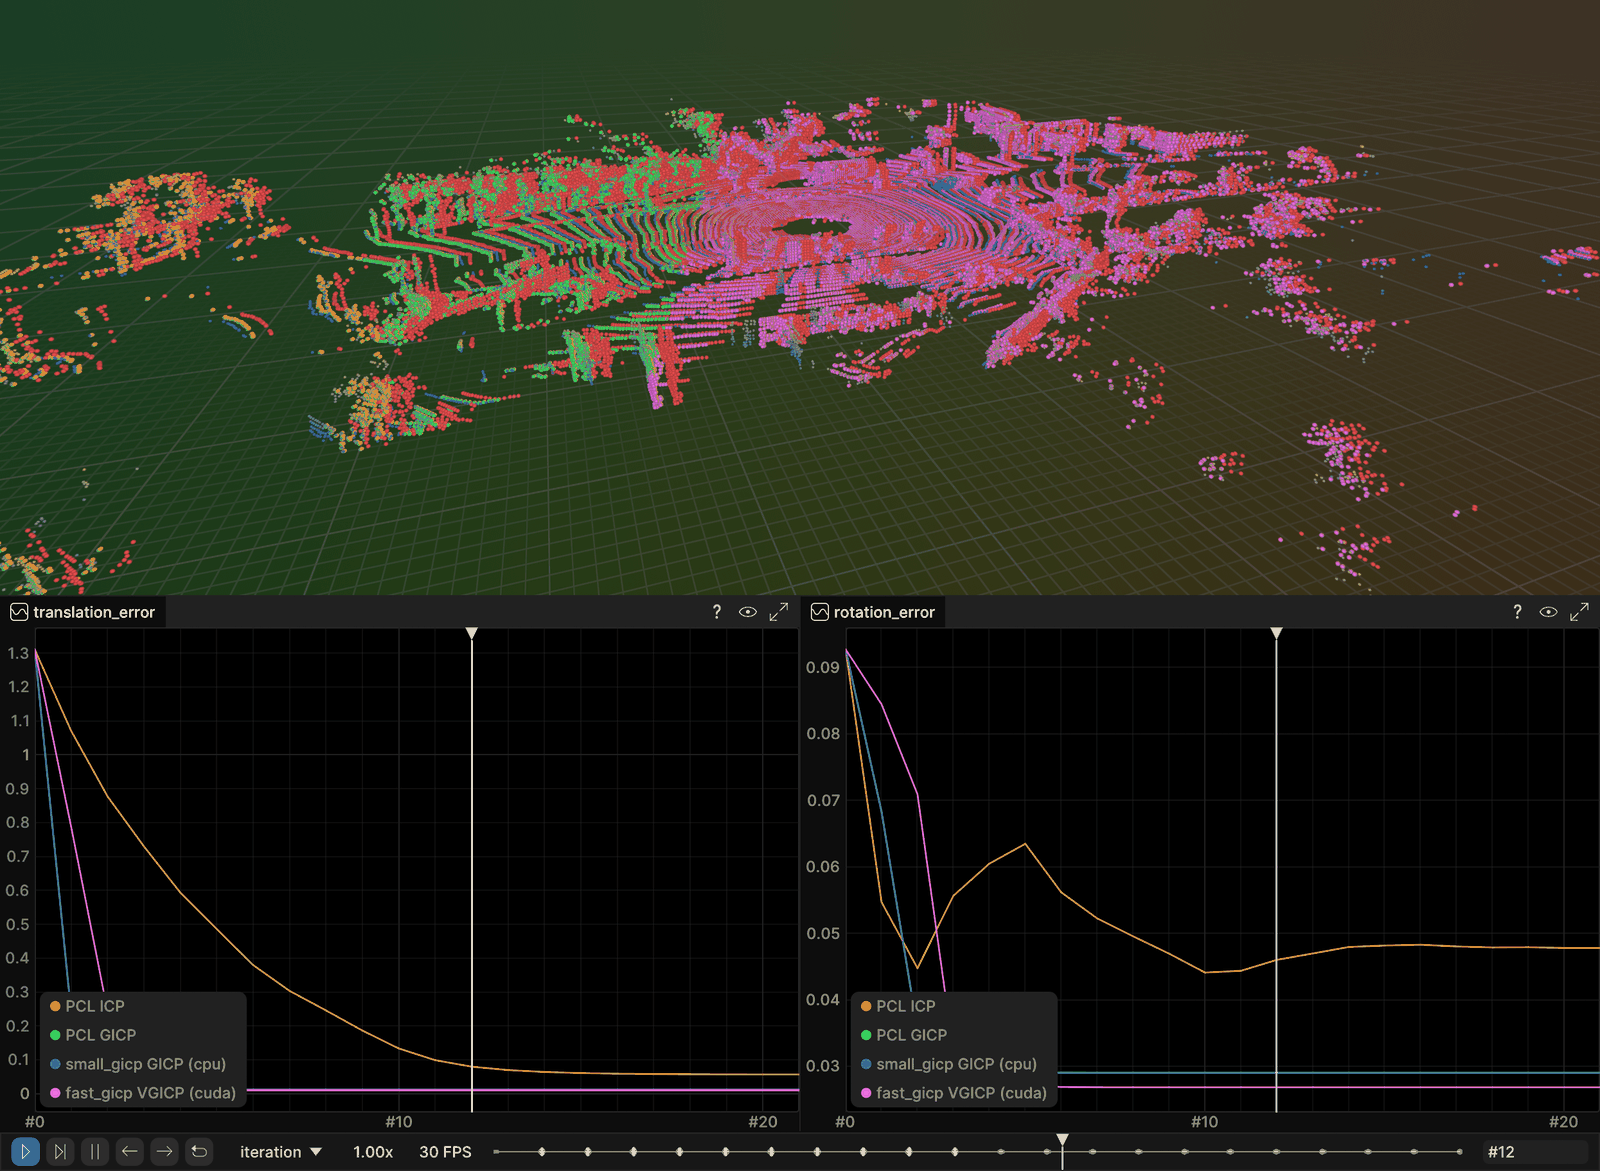
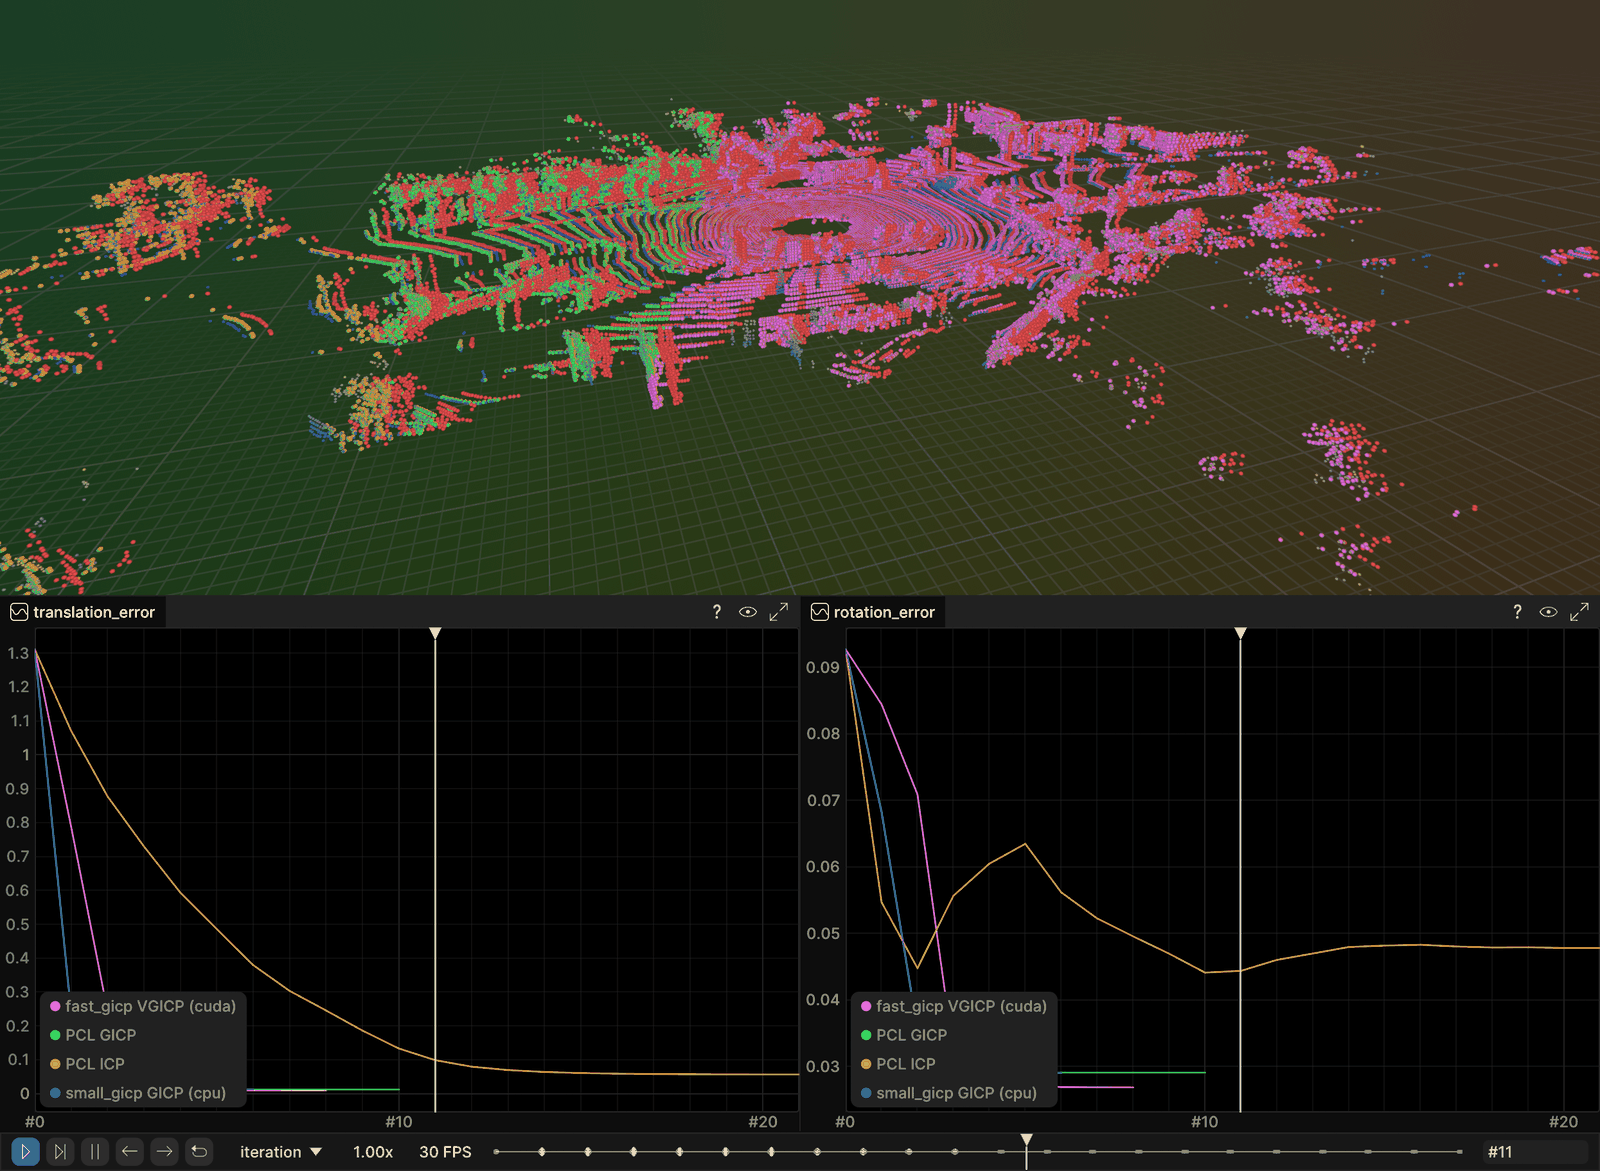
part2_ch03_07: plot the error curves against wall-clock time as well as steps
The convergence graphs were plotted against iteration count only, which answers a
question about the optimizer rather than the one the chapter's speed argument rests
on. A step is not a unit of time, and here the two axes disagree: PCL GICP converges
in 10 steps and the CUDA VGICP in 8, so by iteration count they look like much the
same method, while a PCL GICP step costs about 32 ms and a CUDA step about 0.5 ms.

Every sample is now logged on two timelines, "iteration" and a new "elapsed", so the
viewer's timeline picker switches the x axis with nothing logged twice. On the clock
axis the two PCL curves stretch across 300-400 ms while small_gicp and the CUDA VGICP
collapse into a stripe at the left edge, finished before PCL has taken its second
step. Step axis for convergence behaviour, elapsed for cost.

Three clock hooks, each starting where the solve does rather than where the work
does. attachIterationLogging stamps PCL's callbacks, with runPcl restarting the clock
immediately before align() - the logging is attached before the clouds are even
handed over, so without that reset the curve would carry PCL's setup too. Traced
starts its clock in traceInto(), called just before align(). RecordingGaussNewton
starts one inside optimize(), by which point small_gicp's KdTrees and covariances are
already built. PCL's stamp is taken before the SVD that recovers each step's
transform, so the tracing does not charge itself to the curve.
[…]

diff --git a/SLAM_zero_to_hero/part2_ch03_07/examples/demo_common.hpp b/SLAM_zero_to_hero/part2_ch03_07/examples/demo_common.hpp
@@ -19,6 +19,7 @@
 #pragma once
 
 #include <algorithm>
+#include <cctype>
 #include <chrono>
 #include <cmath>
 #include <filesystem>
@@ -387,6 +388,36 @@ struct ErrorTrace {
     std::string method;
     uint8_t r = 255, g = 255, b = 255;
     std::vector<PoseError> steps;
+
+    /// Wall-clock offset of each step from the start of align(), parallel to
+    /// `steps`.
+    ///
+    /// Recorded because a step is not a unit of time, and the two axes rank the
+    /// methods differently. On the bundled pair PCL GICP converges in 10 steps
+    /// and the CUDA VGICP in 8, so against iteration count they look like much
+    /// the same method - while a PCL GICP step costs about 32 ms and a CUDA step
+    /// about 0.5 ms. The step axis answers "how many iterations", which is a
+    /// question about the optimizer; the elapsed axis answers "how long", which
+    /// is the one a pipeline actually pays. Both go into the viewer, and the
+    /// timeline picker switches between them - see logErrorCurves.
+    std::vector<double> elapsed_ms;
+
+    /// Clock origin, set immediately before align() so that preprocessing -
+    /// which the backends divide up very differently - stays out of the curve.
+    std::chrono::steady_clock::time_point t0 = std::chrono::steady_clock::now();
+
+    /// Seconds from t0 to now
+    double sinceStart() const {
+        return std::chrono::duration<double, std::milli>(
+                   std::chrono::steady_clock::now() - t0)
+            .count();
+    }
+};
+
+/// One recorded optimization step: where the method was, and when it got there
+struct TracedStep {
+    Eigen::Isometry3d pose;
+    double elapsed_ms;
 };
 
 /**
@@ -697,40 +728,38 @@ public:
     void logErrorCurves(const std::vector<ErrorTrace>& traces) {
         if (!connected_ || traces.empty()) return;
 
-        std::vector<std::string> names;
-        std::vector<rerun::Color> colors;
-        std::size_t longest = 0;
         for (const auto& t : traces) {
-            names.push_back(t.method);
-            colors.push_back(rerun::Color(t.r, t.g, t.b));
-            longest = std::max(longest, t.steps.size());
-        }
-        if (longest == 0) return;
+            if (t.steps.empty()) continue;
 
-        for (const char* plot : {"translation_error", "rotation_error"}) {
-            rec_->log_static(plot, rerun::SeriesLines()
-                                       .with_names(names)
-                                       .with_colors(colors)
-                                       .with_widths({1.5f}));
-        }
+            // One entity per method, rather than one multi-valued scalar shared by
+            // all of them. The elapsed timeline forces it: step k of each method
+            // happens at a different millisecond, so they cannot be written at a
+            // common time point. They still share a plot, because the view's
+            // origin is the parent path and picks up every child series.
+            const std::string token = pathToken(t.method);
+            const std::string translation_path = "translation_error/" + token;
+            const std::string rotation_path = "rotation_error/" + token;
 
-        for (std::size_t step = 0; step < longest; ++step) {
-            std::vector<double> translation, rotation;
-            translation.reserve(traces.size());
-            rotation.reserve(traces.size());
-            for (const auto& t : traces) {
-                if (t.steps.empty()) {
-                    translation.push_back(0.0);
-                    rotation.push_back(0.0);
-                    continue;
-                }
-                const PoseError& e = t.steps[std::min(step, t.steps.size() - 1)];
-                translation.push_back(e.translation_m);
-                rotation.push_back(e.rotation_deg);
+            for (const auto& path : {translation_path, rotation_path}) {
+                rec_->log_static(path, rerun::SeriesLines()
+                                           .with_names({t.method})
+                                           .with_colors({rerun::Color(t.r, t.g, t.b)})
+                                           .with_widths({1.5f}));
             }
-            rec_->set_time_sequence("iteration", static_cast<int64_t>(step));
-            rec_->log("translation_error", rerun::Scalars(translation));
-            rec_->log("rotation_error", rerun::Scalars(rotation));
+
+            for (std::size_t step = 0; step < t.steps.size(); ++step) {
+                // Every sample goes on both timelines, so the viewer's timeline
+                // picker switches the whole plot between "how many iterations"
+                // and "how long" without anything being logged twice.
+                rec_->set_time_sequence("iteration", static_cast<int64_t>(step));
+                if (step < t.elapsed_ms.size()) {
+                    rec_->set_time_duration_secs("elapsed",
+                                                 t.elapsed_ms[step] / 1000.0);
+                }
+                rec_->log(translation_path,
+                          rerun::Scalars(t.steps[step].translation_m));
+                rec_->log(rotation_path, rerun::Scalars(t.steps[step].rotation_deg));
+            }
         }
     }
 
@@ -766,6 +795,16 @@ public:
     }
 
 private:
+    /// Method names carry spaces and parentheses; entity paths should not
+    static std::string pathToken(const std::string& name) {
+        std::string token;
+        token.reserve(name.size());
+        for (char c : name) {
+            token.push_back(std::isalnum(static_cast<unsigned char>(c)) ? c : '_');
+        }
+        return token;
+    }
+
     std::optional<rerun::RecordingStream> rec_;
     bool connected_ = false;
 };
@@ -835,6 +874,11 @@ void attachIterationLogging(Registration& reg, RegistrationViz* viz,
         // wrong when it is not (a refinement seeded by global registration would
         // appear to start from the full displacement it was handed the answer to).
         trace->steps.assign(1, poseError(guess, gt));
+        // Step 0 is the starting point, so it sits at t = 0 by definition. The
+        // clock itself is restarted by runPcl() just before align(), which is
+        // what makes the elapsed axis measure the solve rather than the setup.
+        trace->elapsed_ms.assign(1, 0.0);
+        trace->t0 = std::chrono::steady_clock::now();
     }
 
     std::function<void(const CloudT&, const pcl::Indices&, const CloudT&,
@@ -848,8 +892,12 @@ void attachIterationLogging(Registration& reg, RegistrationViz* viz,
 
             viz->logIteration(method, callbacks - 1, intermediate, r, g, b);
             if (score) {
+                // Stamp before the SVD fit below, so the cost of recovering the
+                // transform for the trace is not charged to the method's curve
+                const double elapsed = trace->sinceStart();
                 trace->steps.push_back(
                     poseError(recoverTransform(*source, intermediate), gt));
+                trace->elapsed_ms.push_back(elapsed);
             }
         };
     reg.registerVisualizationCallback(callback);
@@ -939,7 +987,8 @@ template <typename Reg>
 RunResult runPcl(const std::string& method, Reg& reg,
                  const CloudT::Ptr& source, const CloudT::Ptr& target,
                  const Eigen::Matrix4f& ground_truth,
-                 const Eigen::Matrix4f& initial_guess = Eigen::Matrix4f::Identity()) {
+                 const Eigen::Matrix4f& initial_guess = Eigen::Matrix4f::Identity(),
+                 ErrorTrace* trace = nullptr) {
     using clock = std::chrono::high_resolution_clock;
     RunResult result;
     result.method = method;
@@ -948,6 +997,11 @@ RunResult runPcl(const std::string& method, Reg& reg,
     reg.setInputSource(source);
     reg.setInputTarget(target);
     const auto t1 = clock::now();
+
+    // Restart the trace clock here, so its elapsed axis starts where align()
+    // does. attachIterationLogging() runs before the clouds are even handed
+    // over, so without this the curve would carry PCL's setup as well.
+    if (trace) trace->t0 = std::chrono::steady_clock::now();
 
     CloudT aligned;
     reg.align(aligned, initial_guess);
@@ -971,16 +1025,18 @@ RunResult runPcl(const std::string& method, Reg& reg,
 /// Score a recorded pose sequence against ground truth, ready for logErrorCurves()
 inline ErrorTrace traceFromPoses(const std::string& method,
                                  uint8_t r, uint8_t g, uint8_t b,
-                                 const std::vector<Eigen::Isometry3d>& poses,
+                                 const std::vector<TracedStep>& recorded,
                                  const Eigen::Matrix4f& ground_truth) {
     ErrorTrace trace;
     trace.method = method;
     trace.r = r;
     trace.g = g;
     trace.b = b;
-    trace.steps.reserve(poses.size());
-    for (const auto& T : poses) {
-        trace.steps.push_back(poseError(T.matrix().cast<float>(), ground_truth));
+    trace.steps.reserve(recorded.size());
+    trace.elapsed_ms.reserve(recorded.size());
+    for (const auto& step : recorded) {
+        trace.steps.push_back(poseError(step.pose.matrix().cast<float>(), ground_truth));
+        trace.elapsed_ms.push_back(step.elapsed_ms);
     }
     return trace;
 }
@@ -1018,18 +1074,28 @@ inline ErrorTrace traceFromPoses(const std::string& method,
 template <typename Base>
 class Traced : public Base {
 public:
-    void traceInto(std::vector<Eigen::Isometry3d>* sink) { sink_ = sink; }
+    /// Start recording. Call immediately before align() - the elapsed clock
+    /// starts here, so setInputSource/setInputTarget stay out of the curve.
+    void traceInto(std::vector<TracedStep>* sink) {
+        sink_ = sink;
+        t0_ = std::chrono::steady_clock::now();
+    }
 
 protected:
     double linearize(const Eigen::Isometry3d& trans,
                      Eigen::Matrix<double, 6, 6>* H = nullptr,
                      Eigen::Matrix<double, 6, 1>* b = nullptr) override {
-        if (sink_) sink_->push_back(trans);
+        if (sink_) {
+            sink_->push_back({trans, std::chrono::duration<double, std::milli>(
+                                         std::chrono::steady_clock::now() - t0_)
+                                         .count()});
+        }
         return Base::linearize(trans, H, b);
     }
 
 private:
-    std::vector<Eigen::Isometry3d>* sink_ = nullptr;
+    std::vector<TracedStep>* sink_ = nullptr;
+    std::chrono::steady_clock::time_point t0_{};
 };
 
 /**
@@ -1042,7 +1108,7 @@ RunResult runFastGicp(const std::string& method, Reg& reg,
                       const CloudT::Ptr& source, const CloudT::Ptr& target,
                       const Eigen::Matrix4f& ground_truth,
                       const Eigen::Matrix4f& initial_guess = Eigen::Matrix4f::Identity(),
-                      std::vector<Eigen::Isometry3d>* poses = nullptr) {
+                      std::vector<TracedStep>* poses = nullptr) {
     using clock = std::chrono::high_resolution_clock;
     RunResult result;
     result.method = method;
@@ -1066,9 +1132,11 @@ RunResult runFastGicp(const std::string& method, Reg& reg,
         // linearize() hands over pre-update poses, so the last accepted pose is
         // still missing
         // `reg` is a template parameter, so cast<> is a dependent member template
-        // and needs the `template` keyword to parse as one
+        // and needs the `template` keyword to parse as one. The last accepted
+        // pose lands at the moment align() returned.
         poses->push_back(
-            Eigen::Isometry3d(reg.getFinalTransformation().template cast<double>()));
+            {Eigen::Isometry3d(reg.getFinalTransformation().template cast<double>()),
+             std::chrono::duration<double, std::milli>(t2 - t1).count()});
     }
 
     result.converged = reg.hasConverged();
@@ -1121,9 +1189,18 @@ struct RecordingGaussNewton {
         GeneralFactor& general_factor) const {
         small_gicp::RegistrationResult result(init_T);
 
+        // Clock starts inside optimize(), which is where the solve begins - the
+        // KdTrees and covariances were already built before align() was called.
+        const auto t0 = std::chrono::steady_clock::now();
+        const auto elapsed = [&t0] {
+            return std::chrono::duration<double, std::milli>(
+                       std::chrono::steady_clock::now() - t0)
+                .count();
+        };
+
         if (sink) {
             sink->clear();
-            sink->push_back(init_T);  // step 0 is where the method starts
+            sink->push_back({init_T, 0.0});  // step 0 is where the method starts
         }
 
         for (int i = 0; i < max_iterations && !result.converged; i++) {
@@ -1142,7 +1219,7 @@ struct RecordingGaussNewton {
             result.b = b;
             result.error = e;
 
-            if (sink) sink->push_back(result.T_target_source);
+            if (sink) sink->push_back({result.T_target_source, elapsed()});
         }
 
         result.num_inliers = std::count_if(factors.begin(), factors.end(),
@@ -1152,7 +1229,7 @@ struct RecordingGaussNewton {
 
     int max_iterations = 50;
     double lambda = 1e-6;
-    std::vector<Eigen::Isometry3d>* sink = nullptr;
+    std::vector<TracedStep>* sink = nullptr;
 };
 
 /// Copy a PCL cloud into small_gicp's own container
@@ -1183,7 +1260,7 @@ inline RunResult runSmallGicpGICP(const std::string& method,
                                   const Eigen::Matrix4f& ground_truth,
                                   const Eigen::Matrix4f& initial_guess,
                                   const SmallGicpConfig& cfg,
-                                  std::vector<Eigen::Isometry3d>* poses = nullptr) {
+                                  std::vector<TracedStep>* poses = nullptr) {
     using clock = std::chrono::high_resolution_clock;
     RunResult result;
     result.method = method;

diff --git a/SLAM_zero_to_hero/part2_ch03_07/examples/gicp_demo.cpp b/SLAM_zero_to_hero/part2_ch03_07/examples/gicp_demo.cpp
@@ -93,7 +93,8 @@ demo::RunResult runPclIcp(const demo::KittiPair& pair, demo::RegistrationViz* vi
                                  pair.has_ground_truth ? &pair.ground_truth : nullptr,
                                  trace);
 
-    return demo::runPcl("PCL ICP", icp, pair.source, pair.target, pair.ground_truth);
+    return demo::runPcl("PCL ICP", icp, pair.source, pair.target, pair.ground_truth,
+                        Eigen::Matrix4f::Identity(), trace);
 }
 
 demo::RunResult runPclGicp(const demo::KittiPair& pair, demo::RegistrationViz* viz,
@@ -111,7 +112,8 @@ demo::RunResult runPclGicp(const demo::KittiPair& pair, demo::RegistrationViz* v
                                  pair.has_ground_truth ? &pair.ground_truth : nullptr,
                                  trace);
 
-    return demo::runPcl("PCL GICP", gicp, pair.source, pair.target, pair.ground_truth);
+    return demo::runPcl("PCL GICP", gicp, pair.source, pair.target, pair.ground_truth,
+                        Eigen::Matrix4f::Identity(), trace);
 }
 
 demo::SmallGicpConfig smallGicpConfig(int num_threads = kNumThreads) {
@@ -164,7 +166,7 @@ void compareBackends(const demo::KittiPair& pair, demo::RegistrationViz* viz) {
     traces.push_back(gicp_trace);
 
     {
-        std::vector<Eigen::Isometry3d> poses;
+        std::vector<demo::TracedStep> poses;
         auto r = demo::runSmallGicpGICP("small_gicp GICP (cpu)", *pair.source,
                                         *pair.target, pair.ground_truth,
                                         Eigen::Matrix4f::Identity(),
@@ -178,7 +180,7 @@ void compareBackends(const demo::KittiPair& pair, demo::RegistrationViz* viz) {
     }
 
     {
-        std::vector<Eigen::Isometry3d> poses;
+        std::vector<demo::TracedStep> poses;
         auto reg = makeCudaVgicp();
         auto r = demo::runFastGicp("fast_gicp VGICP (cuda)", *reg, pair.source,
                                    pair.target, pair.ground_truth,

diff --git a/SLAM_zero_to_hero/part2_ch03_07/examples/ndt_demo.cpp b/SLAM_zero_to_hero/part2_ch03_07/examples/ndt_demo.cpp
@@ -91,7 +91,8 @@ demo::RunResult runPclNdt(const demo::KittiPair& pair, float resolution,
                                  pair.has_ground_truth ? &pair.ground_truth : nullptr,
                                  trace, &guess);
 
-    return demo::runPcl(label, ndt, pair.source, pair.target, pair.ground_truth, guess);
+    return demo::runPcl(label, ndt, pair.source, pair.target, pair.ground_truth, guess,
+                        trace);
 }
 
 using CudaNdt = demo::Traced<fast_gicp::NDTCuda<PointT, PointT>>;
@@ -142,7 +143,7 @@ void compareBackends(const demo::KittiPair& pair, float resolution,
         const auto& [name, mode] = modes[i];
         const auto& color = (i == 0) ? kD2dColor : kP2dColor;
 
-        std::vector<Eigen::Isometry3d> poses;
+        std::vector<demo::TracedStep> poses;
         auto reg = makeCudaNdt(resolution, mode);
         auto r = demo::runFastGicp(name, *reg, pair.source, pair.target,
                                    pair.ground_truth, Eigen::Matrix4f::Identity(),

diff --git a/SLAM_zero_to_hero/part2_ch03_07/README.md b/SLAM_zero_to_hero/part2_ch03_07/README.md
@@ -158,6 +158,22 @@ three have converged and flattened by then.
 
 ![](./images/gicp_demo.png)
 
+### The same curves against wall-clock time
+
+Both graphs are logged on two timelines, `iteration` and `elapsed`, so the
+viewer's timeline picker switches the x axis between them — nothing is logged
+twice. This is the same run as above, re-plotted against milliseconds:
+
+![](./images/gicp_demo_elapsed.png)
+
+The two axes rank the methods differently, which is why both are there. By
+iteration count PCL GICP converges in 10 steps and the CUDA VGICP in 8, so they
+look like much the same method. By the clock, a PCL GICP step costs about 32 ms
+and a CUDA step about 0.5 ms: the two PCL curves stretch out across 300–400 ms
+while small_gicp and the CUDA VGICP collapse into the vertical stripe at the left
+edge, finished before PCL has taken its second step. Read convergence behaviour on
+the step axis and cost on this one.
+
 ### CPU NDT against CUDA NDT
 
 The same overlay for experiment 2 — PCL NDT blue, NDTCuda D2D magenta, NDTCuda P2D
